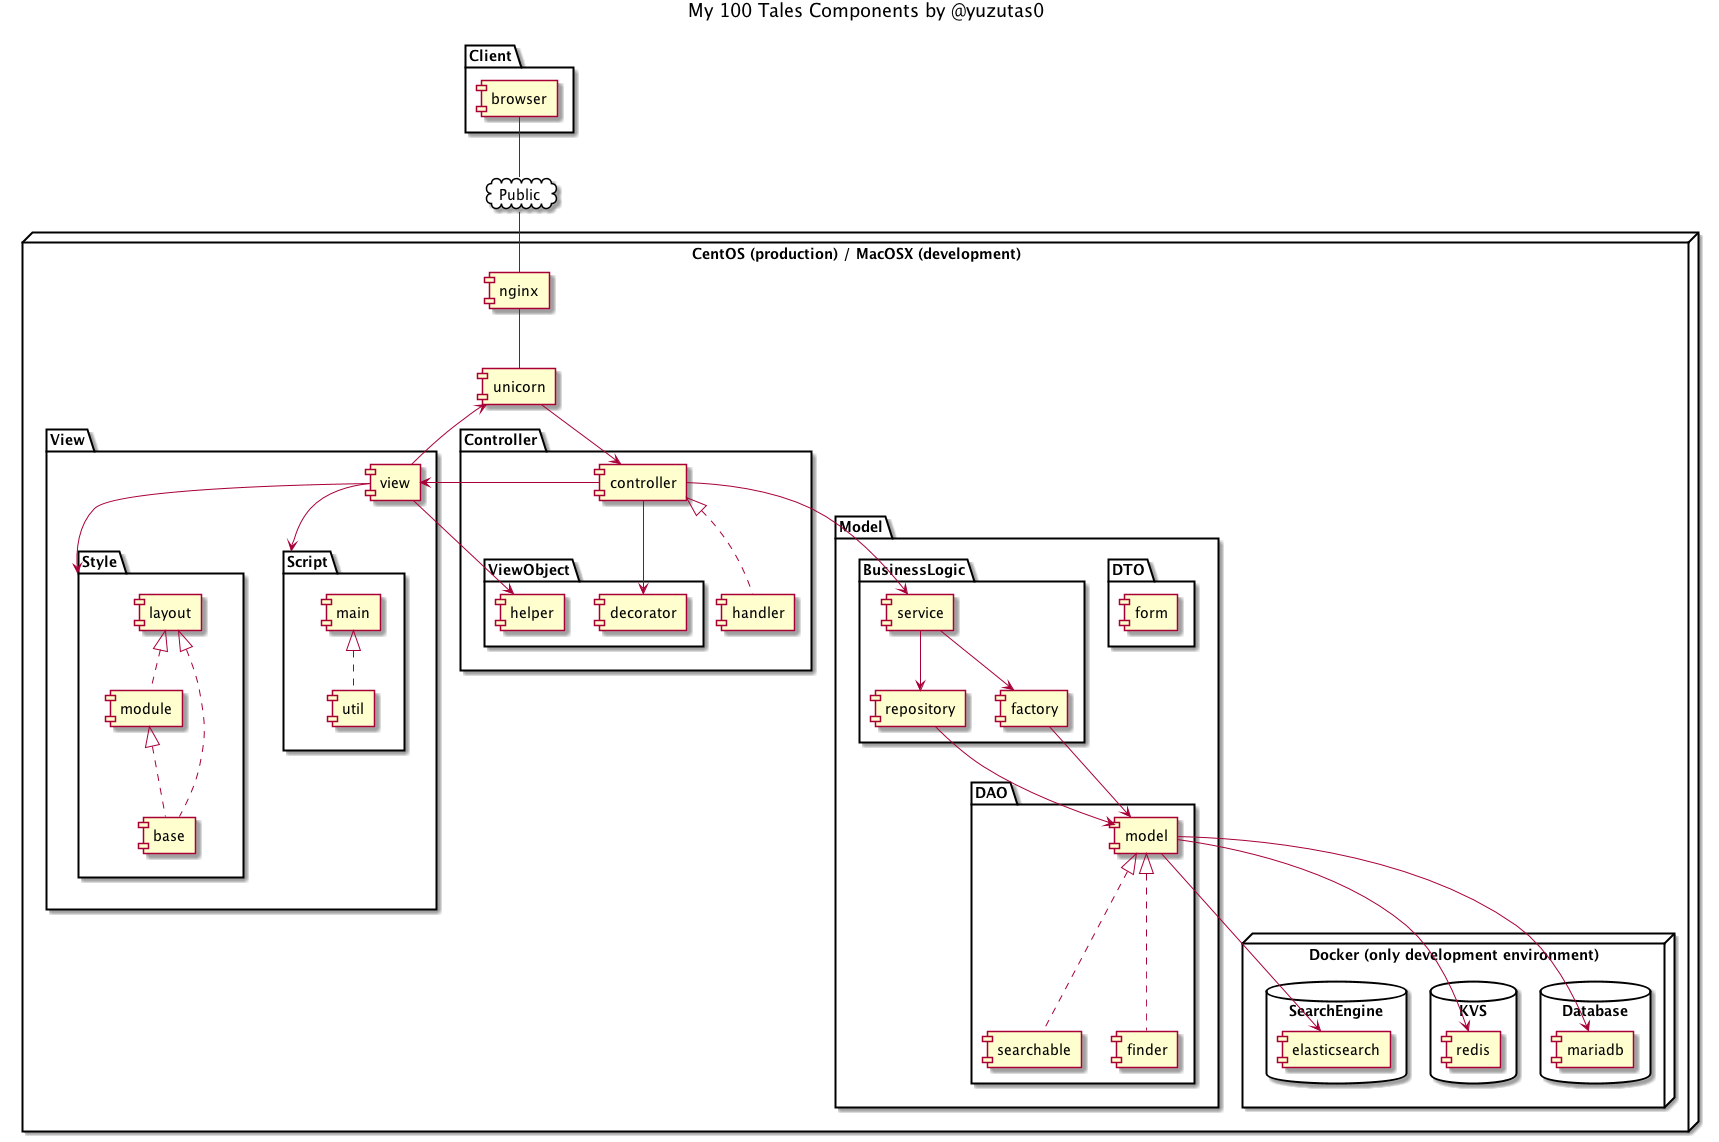
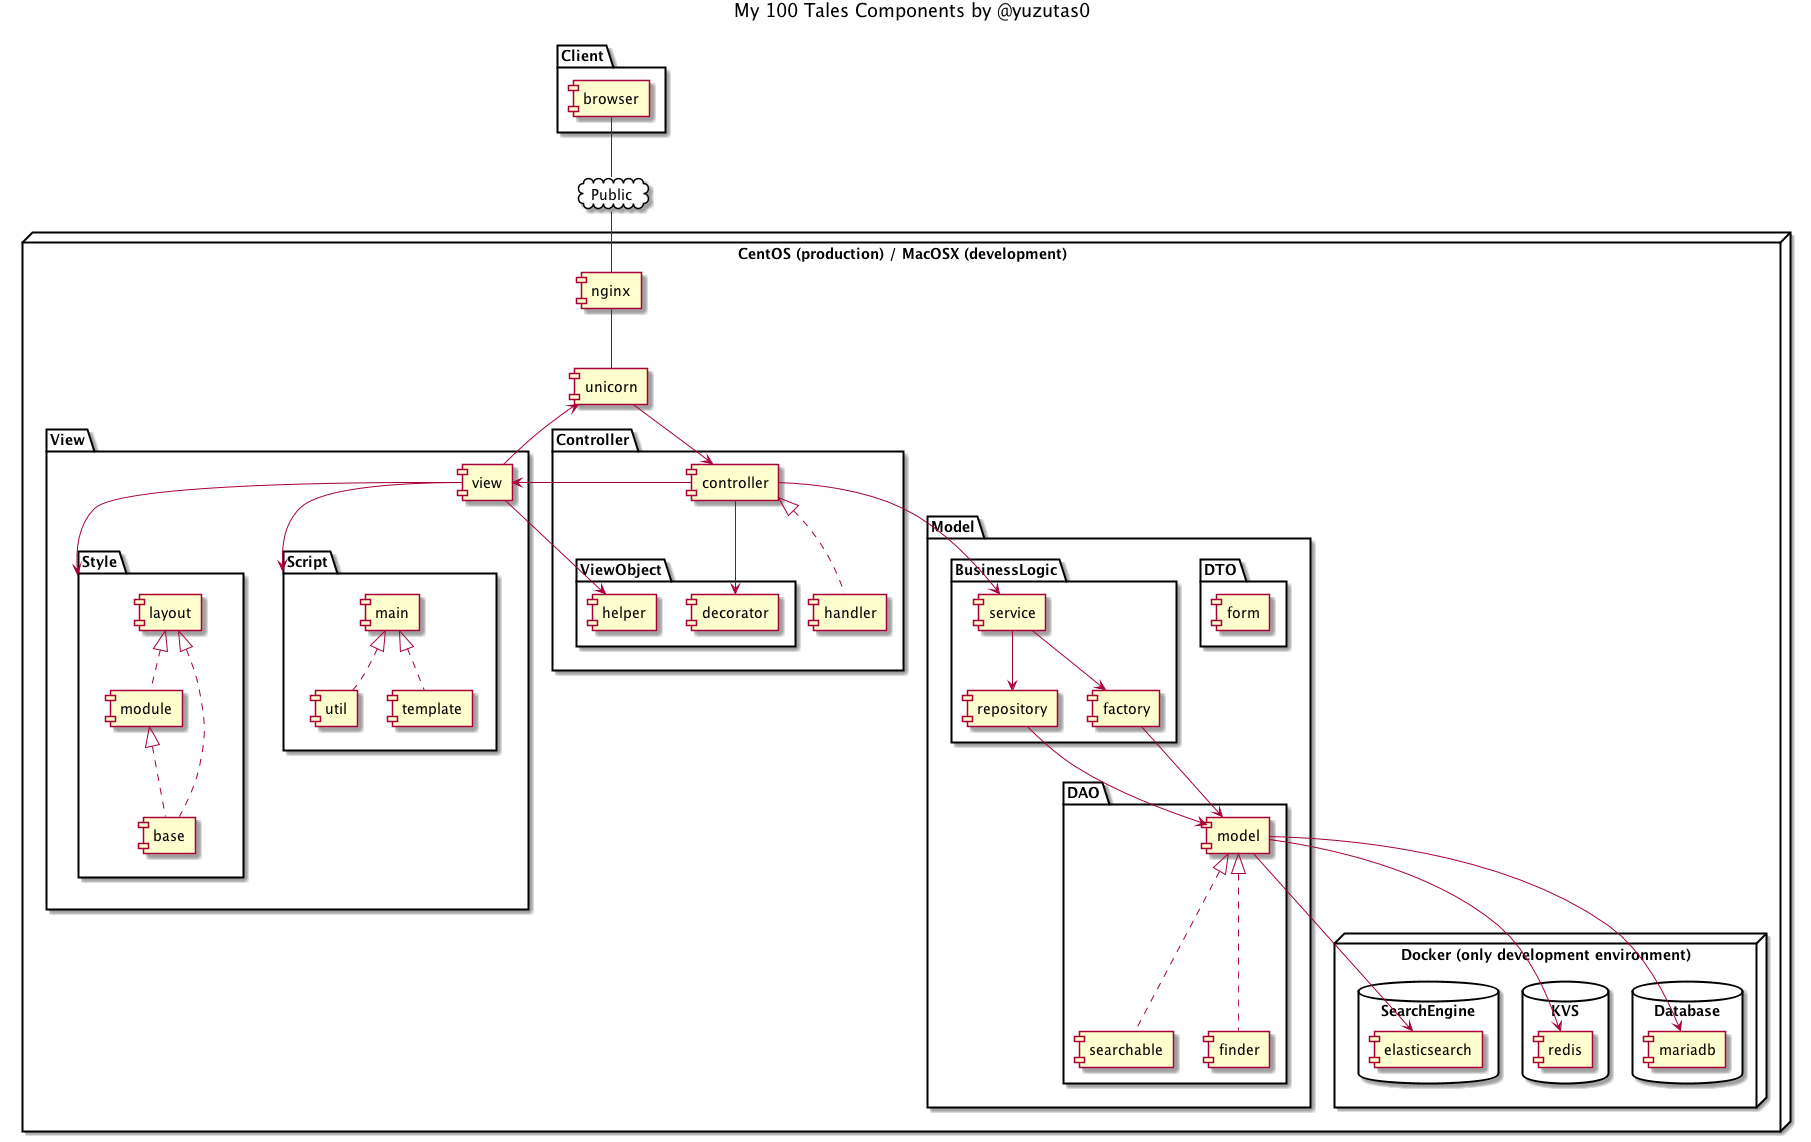
devide javascript logic for rendering into template directory, and fix some layout error

diff --git a/app/assets/stylesheets/base/_const.scss b/app/assets/stylesheets/base/_const.scss
@@ -34,7 +34,6 @@ $margin_size_xxx_small: 1px;
 $editor_size_large: 450px;
 $editor_size_middle: 200px;
 $editor_size_small: 120px;
-$editor_size_x_small: 70px;
 
 $pull_margin_top_small: 8px; // not use tales/index
 $pull_margin_top_middle: 12px;

diff --git a/app/assets/stylesheets/layout/tales/form.css.scss b/app/assets/stylesheets/layout/tales/form.css.scss
@@ -33,6 +33,7 @@
       box-shadow: none;
       outline: none;
       margin-left: $margin_size_xx_small;
+      width: $editor_size_small;
     }
 
     .layout__tale__form__suggest {

diff --git a/app/assets/javascripts/application.js b/app/assets/javascripts/application.js
@@ -29,4 +29,5 @@
 //= require typeahead.js/dist/bloodhound.min
 // Custom
 //= require_tree ./util
+//= require_tree ./template
 //= require_tree ./main
